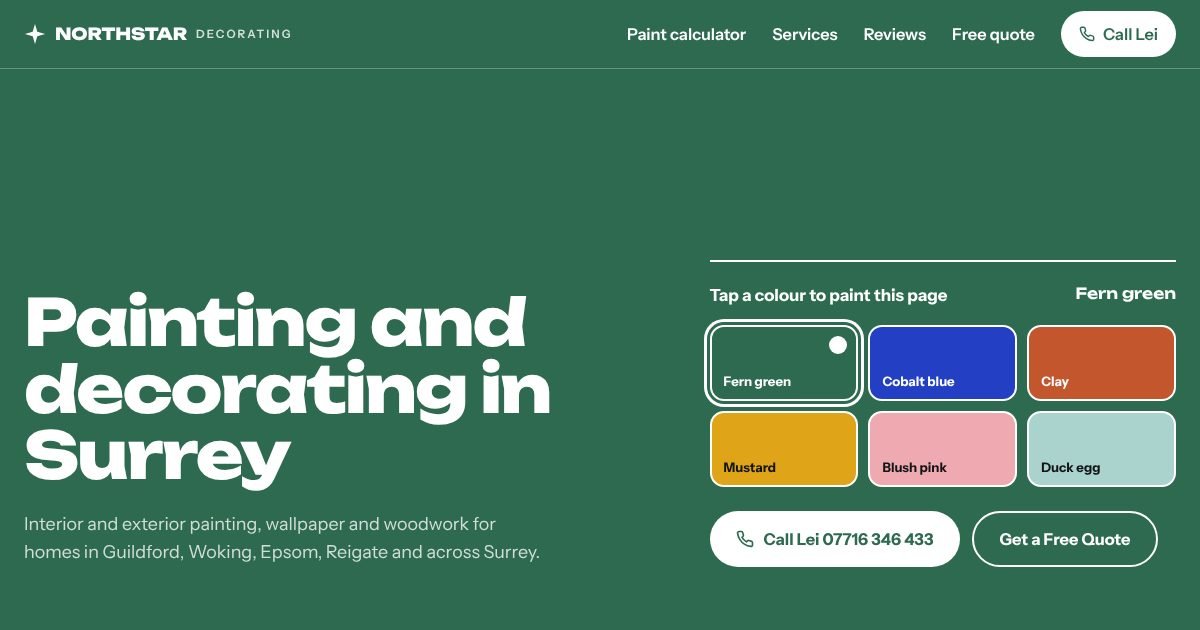
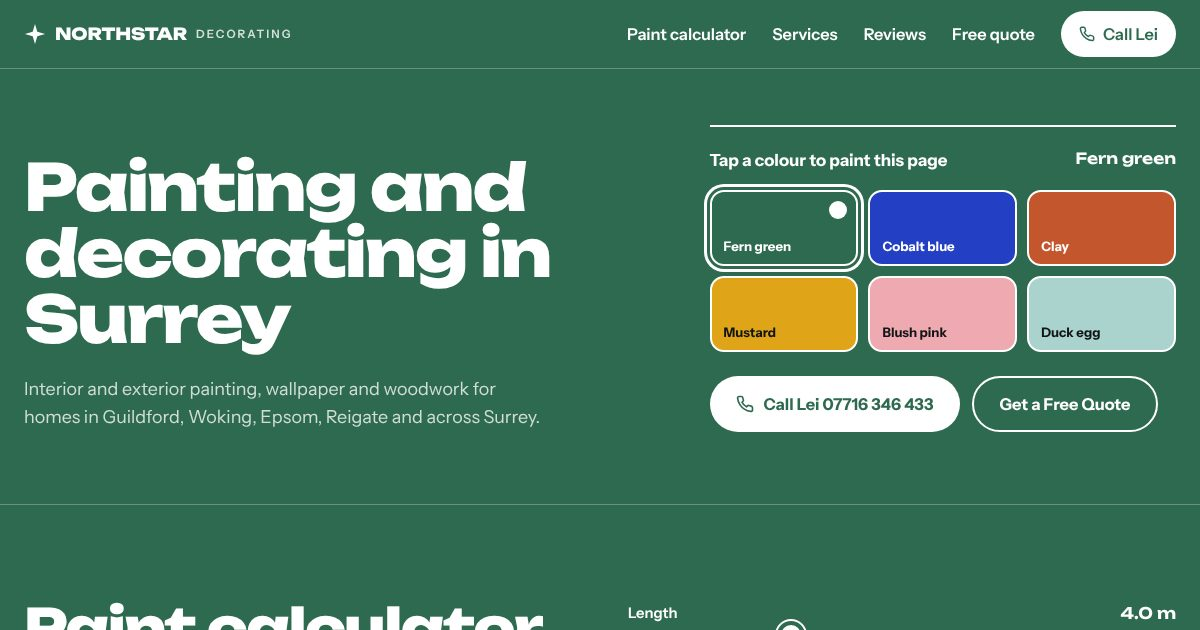
Northstar Decorating B: tighten the space between the nav and the hero

diff --git a/northstar-decorating-b/index.html b/northstar-decorating-b/index.html
@@ -70,7 +70,7 @@ main,header,footer{position:relative;z-index:1}
 .nav-toggle[aria-expanded="true"] span:nth-child(3){transform:translateY(-6px) rotate(-45deg)}
 
 /* fold */
-.fold{padding-top:48px;padding-bottom:64px;display:grid;grid-template-columns:1.35fr 1fr;gap:56px;align-items:end;min-height:calc(100vh - var(--navh))}
+.fold{padding-top:56px;padding-bottom:72px;display:grid;grid-template-columns:1.35fr 1fr;gap:56px;align-items:end}
 .fold h1{font-size:clamp(2.3rem,5.4vw,5rem)}
 .fold .lede{color:var(--soft);font-size:1.12rem;max-width:520px;margin-top:22px}
 .picker{border-top:2px solid var(--on);padding-top:20px}
@@ -170,7 +170,7 @@ footer a.cr{color:#fff;text-decoration:underline;text-underline-offset:3px}
   .nav-links li:last-child{border:0;padding-top:16px}
   .nav-links a{display:block;padding:15px 0;font-size:1.08rem}
   .nav-links a.nav-cta{display:flex;justify-content:center;padding:15px}
-  .fold{grid-template-columns:1fr;gap:26px;min-height:0;padding-top:28px;padding-bottom:56px}
+  .fold{grid-template-columns:1fr;gap:26px;padding-top:22px;padding-bottom:56px}
   .fold h1{font-size:2.35rem}
   .fold .lede{font-size:1rem;margin-top:14px}
   .sw{gap:8px;margin:14px 0 20px}
